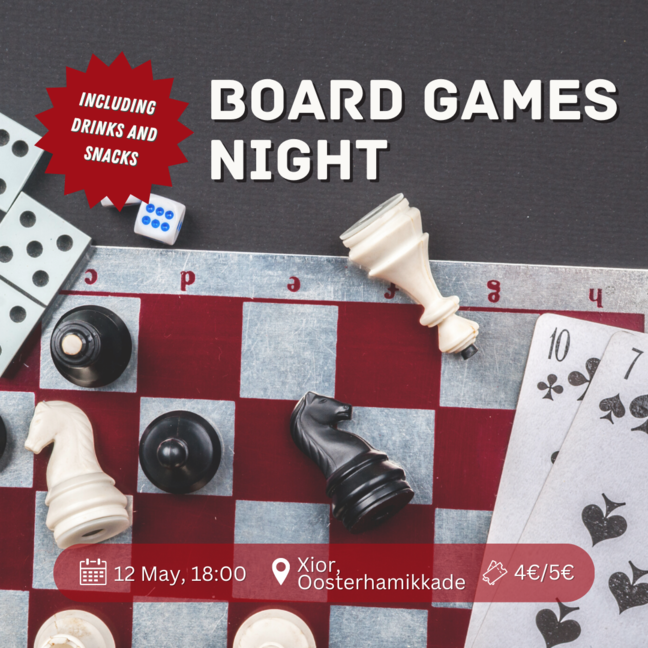
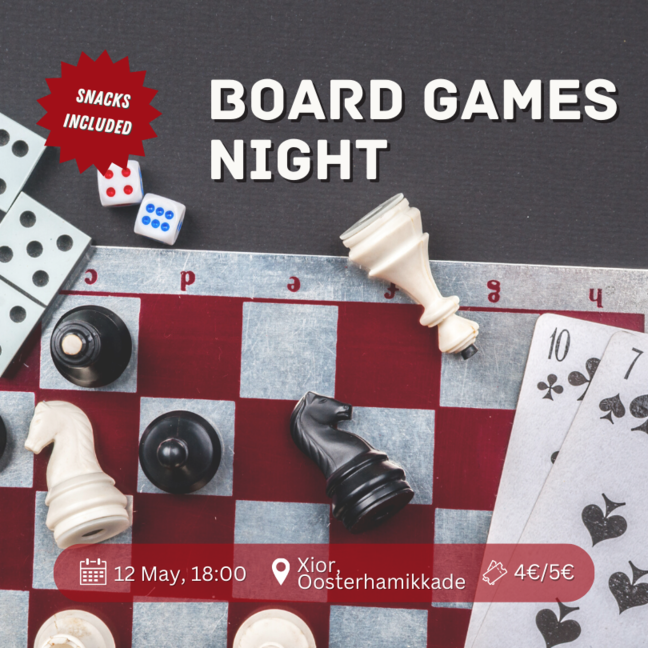
modified:   public/assets/images/portfolio/portfolio-8.jpg 	modified:   public/assets/images/portfolio/portfolio-8.webp 	modified:   src/util/EVENTS.js

diff --git a/src/util/EVENTS.js b/src/util/EVENTS.js
@@ -11,11 +11,11 @@ export const OPEN_SOCIETY_EVENTS = [
     where: "Xior, Oosterhamikkade",
     entry: 5,
     memberEntry: 4,
-    including: 'including snacks and a drink',
+    including: 'including snacks',
     price_id: "price_1N3cxqIOw5UGbAo13X2dDxcz",
     memberPrice_id: "price_1N3cx2IOw5UGbAo1TChIppD6",
     text: [
-      `Are you tired of constantly getting checkmated? This is your chance to pull an UNO Reverse Card and win the game! On 12.05 from 18:00 at Xior, Oosterhamikkade we are organizing a “Board Games Night”, where you will have the chance to show off your skills in Chess, Belot, Jenga, Uno and more. You can also bring your favorite game and prove to us that you're the best at it.`,
+      `Are you tired of constantly getting checkmated? This is your chance to pull an UNO Reverse Card and win the game! On 12.05 from 18:00 at Xior, Oosterhamikkade we are organizing a “Board Games Night”, where you will have the chance to show off your skills in Chess, Belot, Jenga, Uno and more. You can also bring your favourite game and prove to us that you're the best at it.`,
       `Disclaimer: If you are not ready to fight with all your friends over the game, do you even want to win!?`],
     images: ["/assets/images/portfolio/portfolio-8"],
     thumbnail: "/assets/images/portfolio/portfolio-8",
